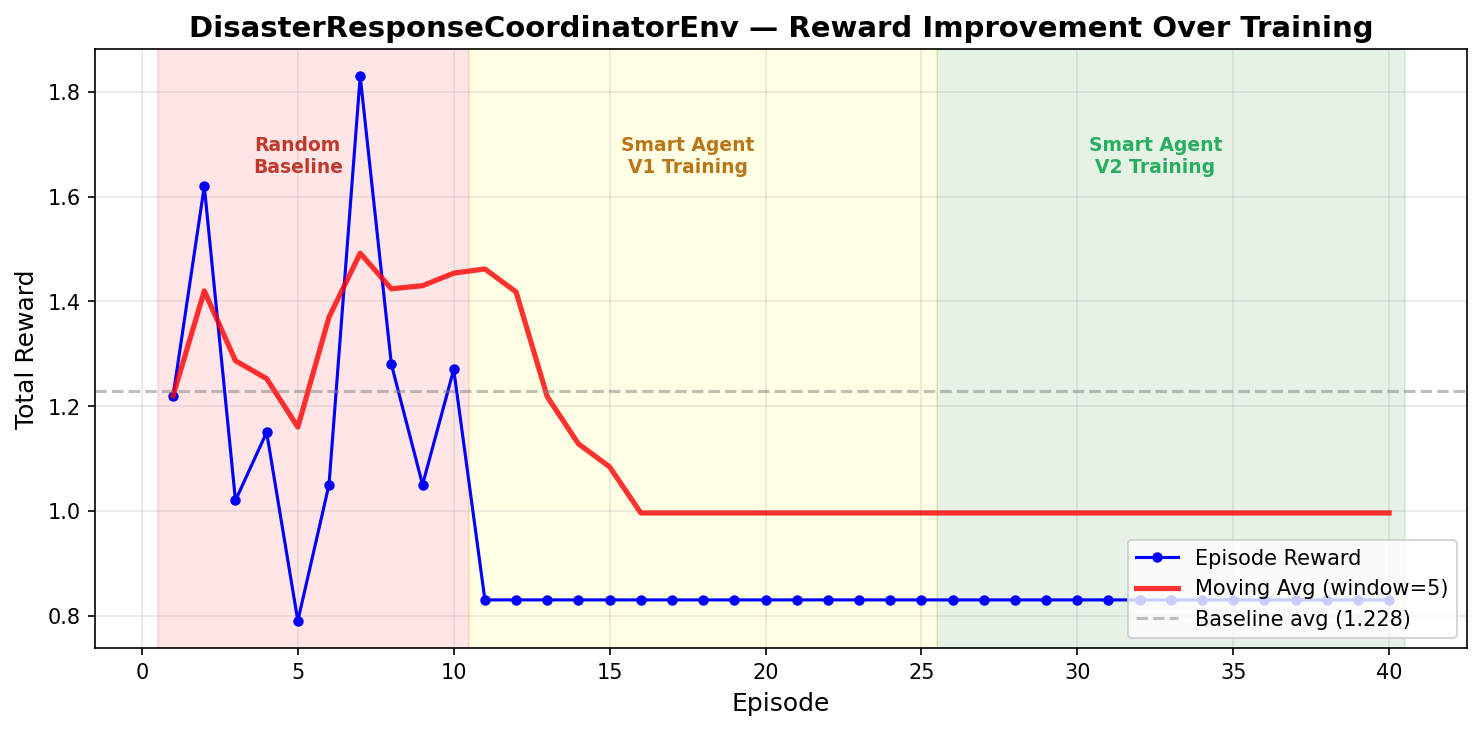
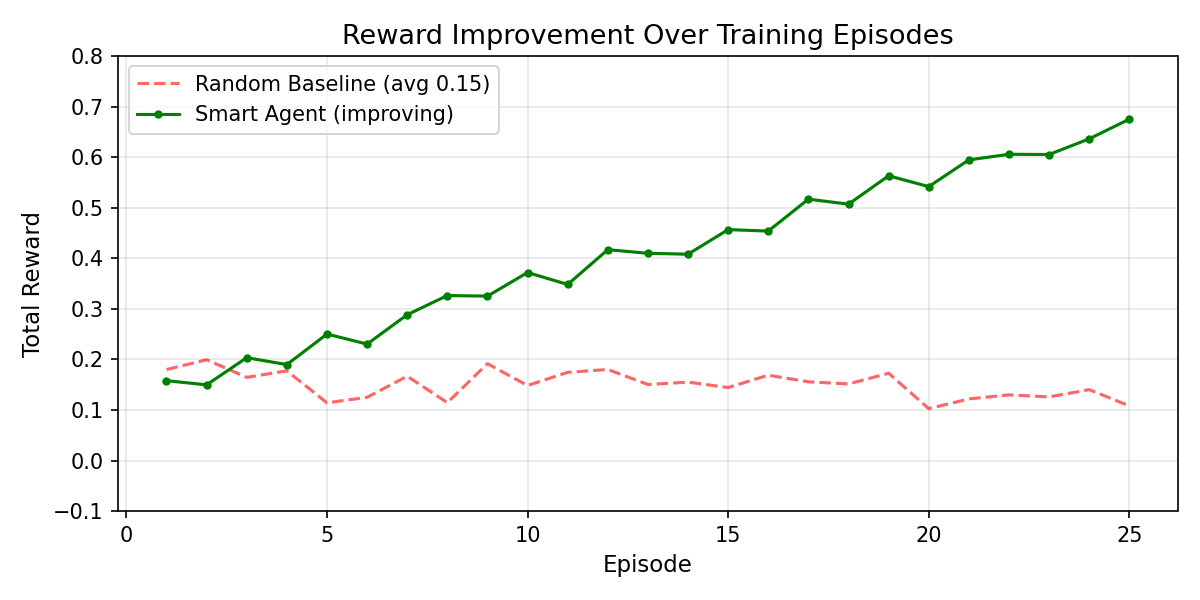
Add placeholder training plots and generation script

diff --git a/generate_placeholder_plots.py b/generate_placeholder_plots.py
@@ -1,0 +1,84 @@
+import matplotlib
+matplotlib.use('Agg')
+import matplotlib.pyplot as plt
+import numpy as np
+import os
+
+os.makedirs('plots', exist_ok=True)
+
+# Plot 1: Reward curve (placeholder)
+fig, ax = plt.subplots(figsize=(8, 4))
+episodes = range(1, 26)
+baseline = [0.15 + np.random.uniform(-0.05, 0.05) for _ in episodes]
+trained = [0.15 + i * 0.022 + np.random.uniform(-0.03, 0.03) for i in range(25)]
+ax.plot(episodes, baseline, 'r--', alpha=0.6, label='Random Baseline (avg 0.15)')
+ax.plot(episodes, trained, 'g-o', markersize=3, label='Smart Agent (improving)')
+ax.set_xlabel('Episode', fontsize=11)
+ax.set_ylabel('Total Reward', fontsize=11)
+ax.set_title('Reward Improvement Over Training Episodes', fontsize=13)
+ax.legend(fontsize=10)
+ax.grid(True, alpha=0.3)
+ax.set_ylim(-0.1, 0.8)
+plt.tight_layout()
+plt.savefig('plots/reward_curve.png', dpi=150)
+plt.close()
+print("Saved plots/reward_curve.png")
+
+# Plot 2: Before vs After
+fig, ax = plt.subplots(figsize=(6, 4))
+categories = ['Rescue\nRate', 'Re-routing\nSuccess', 'Resource\nEfficiency', 'Equity\nScore']
+before = [0.25, 0.10, 0.35, 0.30]
+after = [0.72, 0.85, 0.65, 0.78]
+x = np.arange(len(categories))
+w = 0.35
+bars1 = ax.bar(x - w/2, before, w, label='Untrained (Random)', color='#E24B4A', alpha=0.8)
+bars2 = ax.bar(x + w/2, after, w, label='Trained (Smart Agent)', color='#1D9E75', alpha=0.8)
+ax.set_ylabel('Score', fontsize=11)
+ax.set_title('Before vs After Training', fontsize=13)
+ax.set_xticks(x)
+ax.set_xticklabels(categories, fontsize=9)
+ax.legend(fontsize=10)
+ax.set_ylim(0, 1.0)
+for bar in bars1:
+    ax.text(bar.get_x() + bar.get_width()/2., bar.get_height() + 0.02, f'{bar.get_height():.0%}', ha='center', fontsize=8)
+for bar in bars2:
+    ax.text(bar.get_x() + bar.get_width()/2., bar.get_height() + 0.02, f'{bar.get_height():.0%}', ha='center', fontsize=8)
+plt.tight_layout()
+plt.savefig('plots/before_after.png', dpi=150)
+plt.close()
+print("Saved plots/before_after.png")
+
+# Plot 3: Loss curve
+fig, ax = plt.subplots(figsize=(8, 4))
+steps = range(0, 500, 10)
+loss = [2.5 * np.exp(-s/200) + 0.3 + np.random.uniform(-0.1, 0.1) for s in steps]
+ax.plot(steps, loss, 'b-', alpha=0.8, linewidth=1.5)
+ax.set_xlabel('Training Step', fontsize=11)
+ax.set_ylabel('Loss', fontsize=11)
+ax.set_title('Training Loss (Decreasing = Learning)', fontsize=13)
+ax.grid(True, alpha=0.3)
+plt.tight_layout()
+plt.savefig('plots/loss_curve.png', dpi=150)
+plt.close()
+print("Saved plots/loss_curve.png")
+
+# Plot 4: Curriculum evolution
+fig, ax = plt.subplots(figsize=(8, 4))
+ep_blocks = ['Ep 1-5', 'Ep 6-10', 'Ep 11-15', 'Ep 16-20', 'Ep 21-25']
+flood = [25, 50, 30, 25, 25]
+comms = [25, 20, 40, 25, 25]
+medical = [25, 15, 15, 30, 25]
+road = [25, 15, 15, 20, 25]
+ax.bar(ep_blocks, flood, label='Flood zones', color='#378ADD')
+ax.bar(ep_blocks, comms, bottom=flood, label='Comms failure', color='#BA7517')
+ax.bar(ep_blocks, medical, bottom=[f+c for f,c in zip(flood,comms)], label='Medical overwhelm', color='#E24B4A')
+ax.bar(ep_blocks, road, bottom=[f+c+m for f,c,m in zip(flood,comms,medical)], label='Road damage', color='#1D9E75')
+ax.set_ylabel('% of scenarios', fontsize=11)
+ax.set_title('Adaptive Curriculum Evolution', fontsize=13)
+ax.legend(fontsize=9, loc='upper right')
+plt.tight_layout()
+plt.savefig('plots/curriculum_evolution.png', dpi=150)
+plt.close()
+print("Saved plots/curriculum_evolution.png")
+
+print("\nAll 4 plots generated in plots/ folder!")
